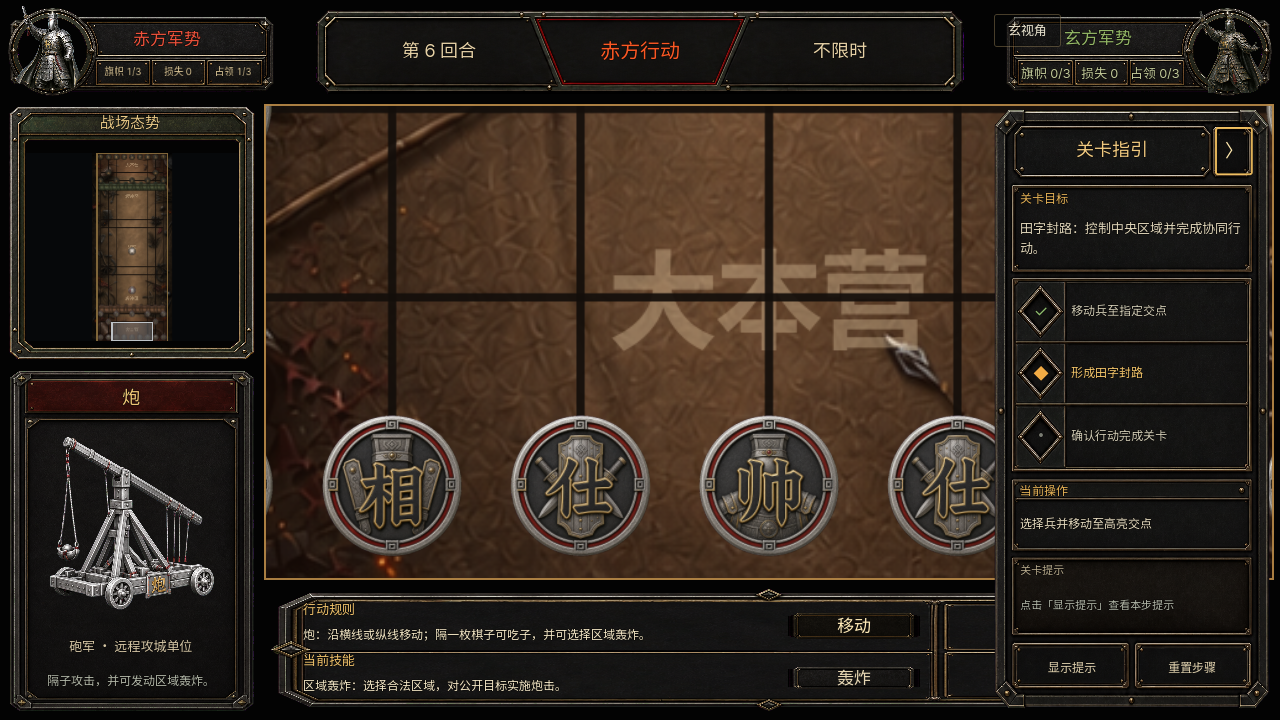
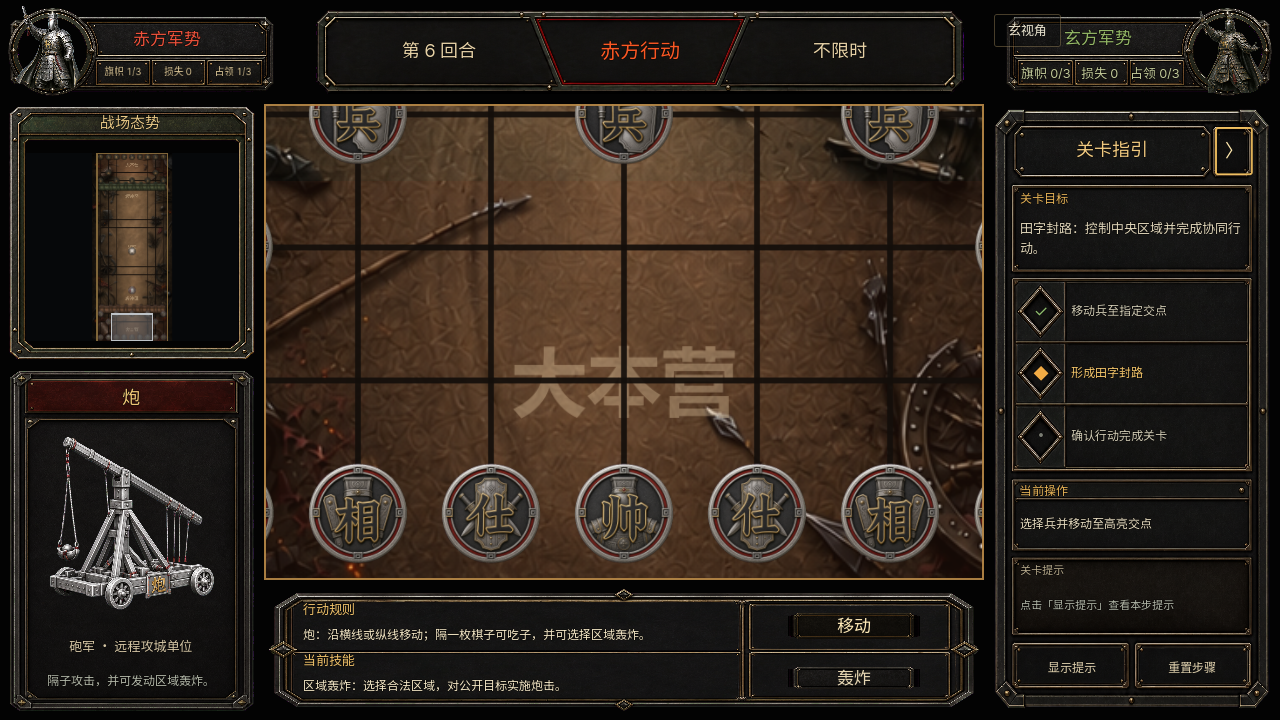
feat: 修复关卡测试场景棋盘扩张

diff --git a/docs/ui/level-gameplay-hud-lab.md b/docs/ui/level-gameplay-hud-lab.md
@@ -12,7 +12,7 @@
 
 ## 复用边界
 
-测试场景直接实例化正式联机场景 `online_match_screen.tscn`，因此顶部军势、回合条、左侧小地图与单位卡、中部棋盘、底部行动规则全部继续使用正式 `MatchHudV3`。仅隐藏正式 HUD 的整条右栏，并在相同容器坐标覆盖独立 `LevelGuidePanel`。
+测试场景直接实例化正式联机场景 `online_match_screen.tscn`，因此顶部军势、回合条、左侧小地图与单位卡、中部棋盘、底部行动规则全部继续使用正式 `MatchHudV3`。正式 `RightRail` 容器继续保留 `284px` 布局占位，只隐藏其内部的 `ObjectiveEvents / Confirmation` 内容，再在相同容器坐标覆盖独立 `LevelGuidePanel`。不能隐藏 `RightRail` 本身，否则 `HBoxContainer` 会释放右栏宽度并让棋盘扩张到关卡指引下方。
 
 `LevelGuidePanel` 的背景使用已审批的 `level_guide_panel_v1.png`，标题、目标、三步状态、当前操作、提示和按钮文字均由预置 `Label/Button` 节点承载，没有烘焙进图片。
 
